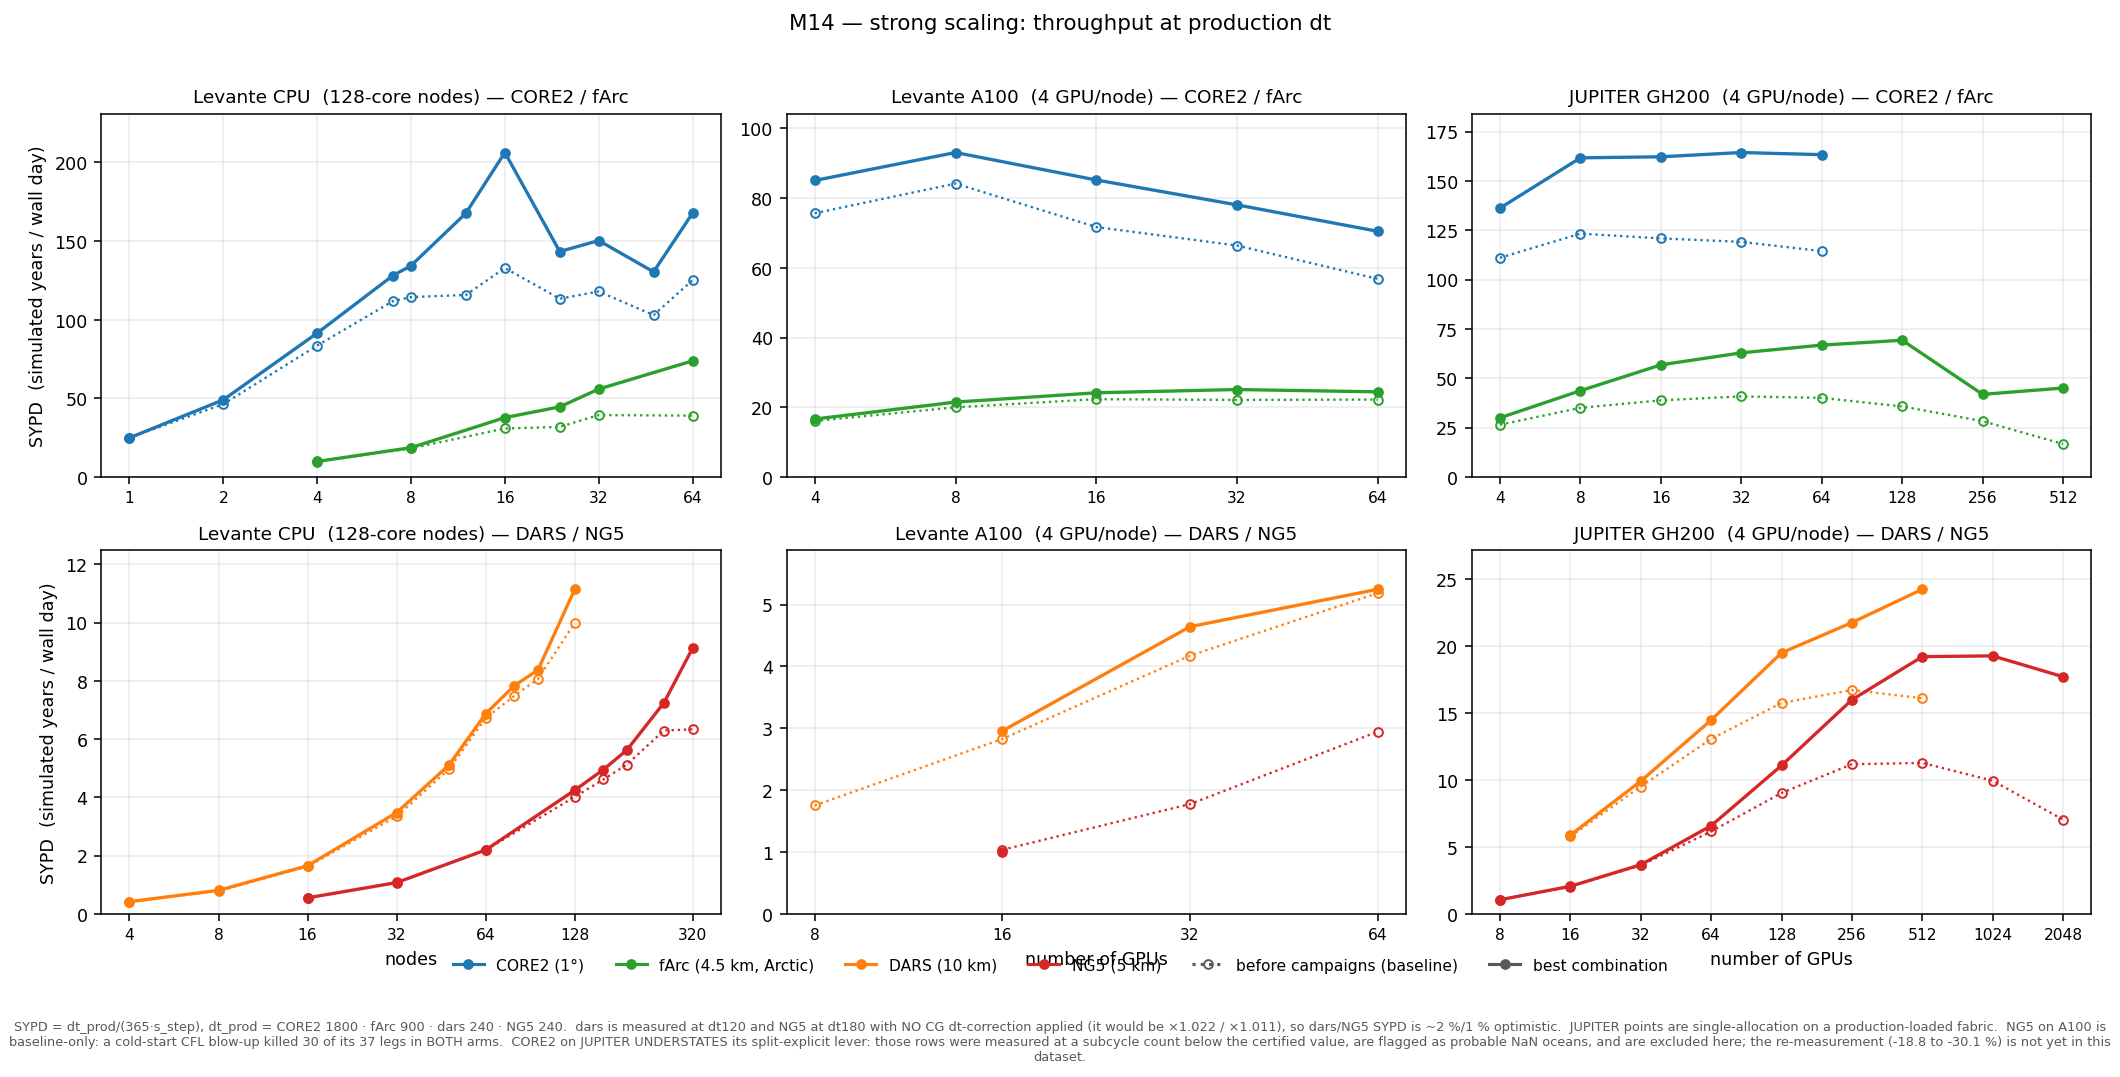
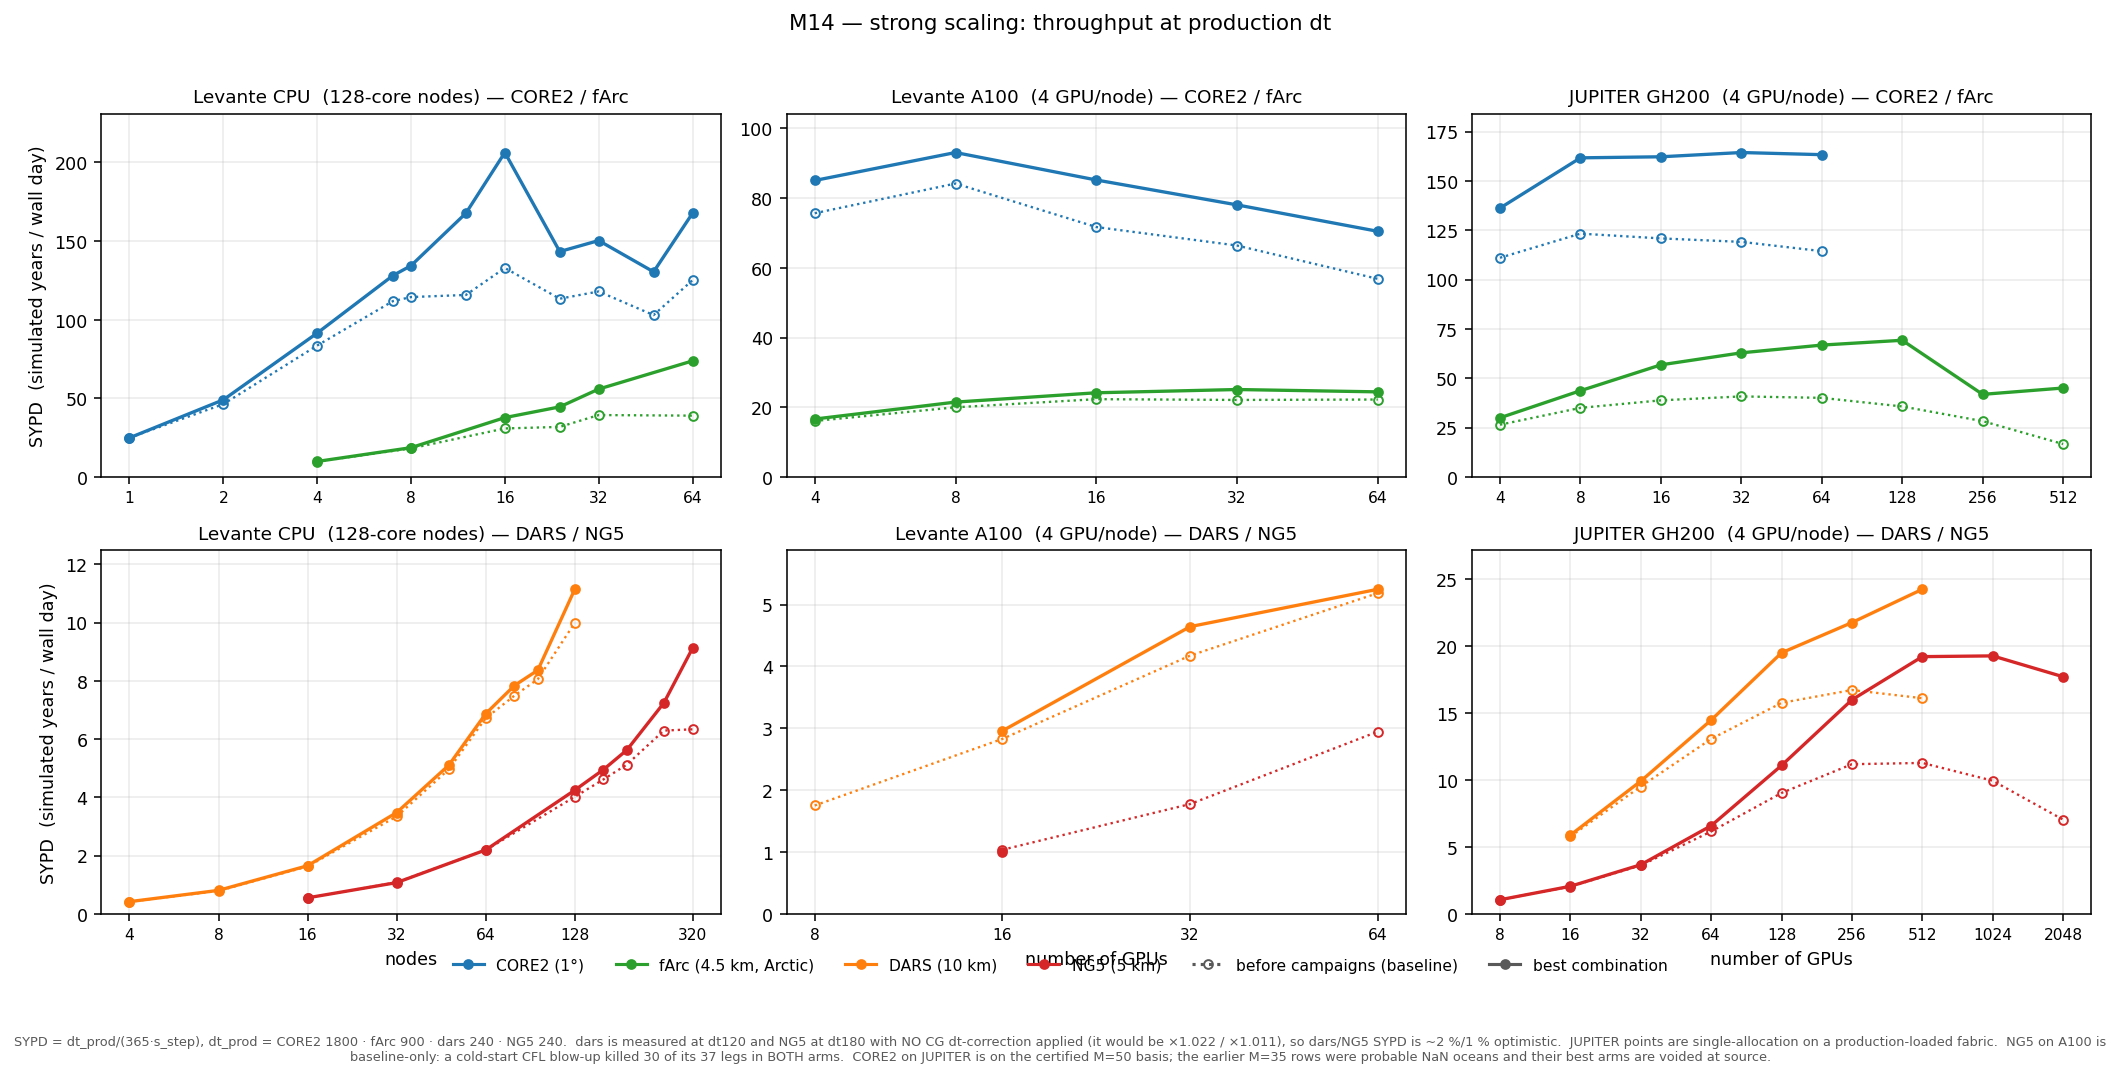
Figures: fix the stale CORE2 caption — the gap is closed, not open
My previous commit meant to remove the 'CORE2 understates its split-explicit
lever' note but the edit silently no-op'd (assertion failed, commit proceeded
anyway) so the figures shipped saying a gap existed that the corrected CSV had
already closed. Caption now states the M=50 basis.

Changed region(s): [[0.0, 0.9499, 0.9962, 1.0]]

diff --git a/scripts/m14_scaling_figs.py b/scripts/m14_scaling_figs.py
@@ -336,9 +336,8 @@ NOTE_SYPD = ("SYPD = dt_prod/(365·s_step), dt_prod = CORE2 1800 · fArc 900 · 
              "(it would be ×1.022 / ×1.011), so dars/NG5 SYPD is ~2 %/1 % optimistic.")
 NOTE_GAP = ("JUPITER points are single-allocation on a production-loaded fabric.  NG5 on A100 is "
             "baseline-only: a cold-start CFL blow-up killed 30 of its 37 legs in BOTH arms.  "
-            "CORE2 on JUPITER UNDERSTATES its split-explicit lever: those rows were measured at a "
-            "subcycle count below the certified value, are flagged as probable NaN oceans, and are "
-            "excluded here; the re-measurement (-18.8 to -30.1 %) is not yet in this dataset.")
+            "CORE2 on JUPITER is on the certified M=50 basis; the earlier M=35 rows were probable "
+            "NaN oceans and their best arms are voided at source.")
 
 
 def annotate_gaps(ax, plat, data):
